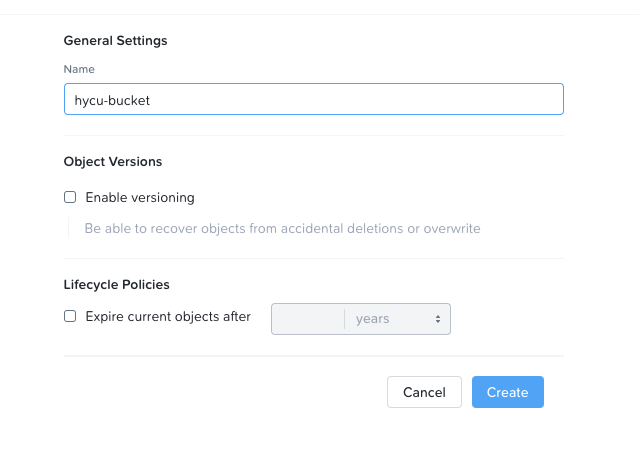
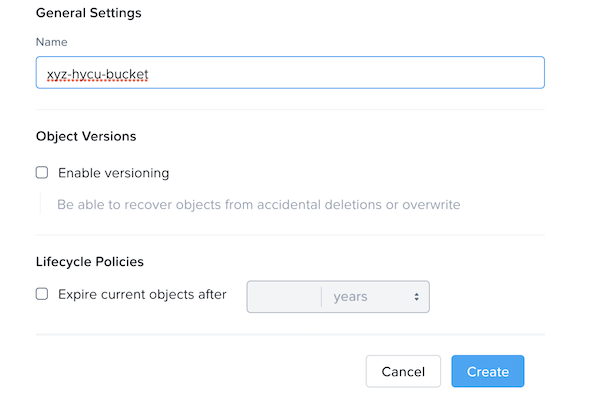
Modified to include initials for Buckets user and bucket creation so users on the same PC do not conflict

diff --git a/hycu/hycu.rst b/hycu/hycu.rst
@@ -465,7 +465,7 @@ Create Access Keys
 
 #. Click on "Access Keys" in the top left menu
 
-#. Click on "+ Add People," then select "Add people not in a directory service," then specify the name "hycu@ntnxlab.local." Click Next
+#. Click on "+ Add People," then select "Add people not in a directory service," then specify the name "*Initials*-hycu@ntnxlab.local." Click Next
 
    .. note:: You can configure a directory service for user authentication here rather than local users
 
@@ -480,13 +480,13 @@ Configuring a Bucket
 
 #. Click on "ntnx-objects," then select "Create Bucket"
 
-#. Name the bucket "hycu-bucket" and leave the default options. Then click "Create"
+#. Name the bucket "*initials*-hycu-bucket" and leave the default options. Then click "Create"
 
    .. figure:: images/34.png
 
 #. Once created, click on the bucket and select "User Access," then click the "Edit User Access"
 
-#. Type "hcyu@ntnxlab.local" and select both the "Read" and "Write" options, then click Save
+#. Type "*initials*-hcyu@ntnxlab.local" and select both the "Read" and "Write" options, then click Save
 
    .. figure:: images/35.png
 
@@ -512,7 +512,7 @@ Configure Nutanix Objects within HYCU
 
    .. figure:: images/37.png
 
-#. For Bucket Name, specify "hycu-bucket"
+#. For Bucket Name, specify "*initials*hycu-bucket"
 
 #. Retrieve the Access Key ID and Secret Access Key from the file you downloaded earlier when configuring the user within Nutanix Objects. Click "Save"
 
